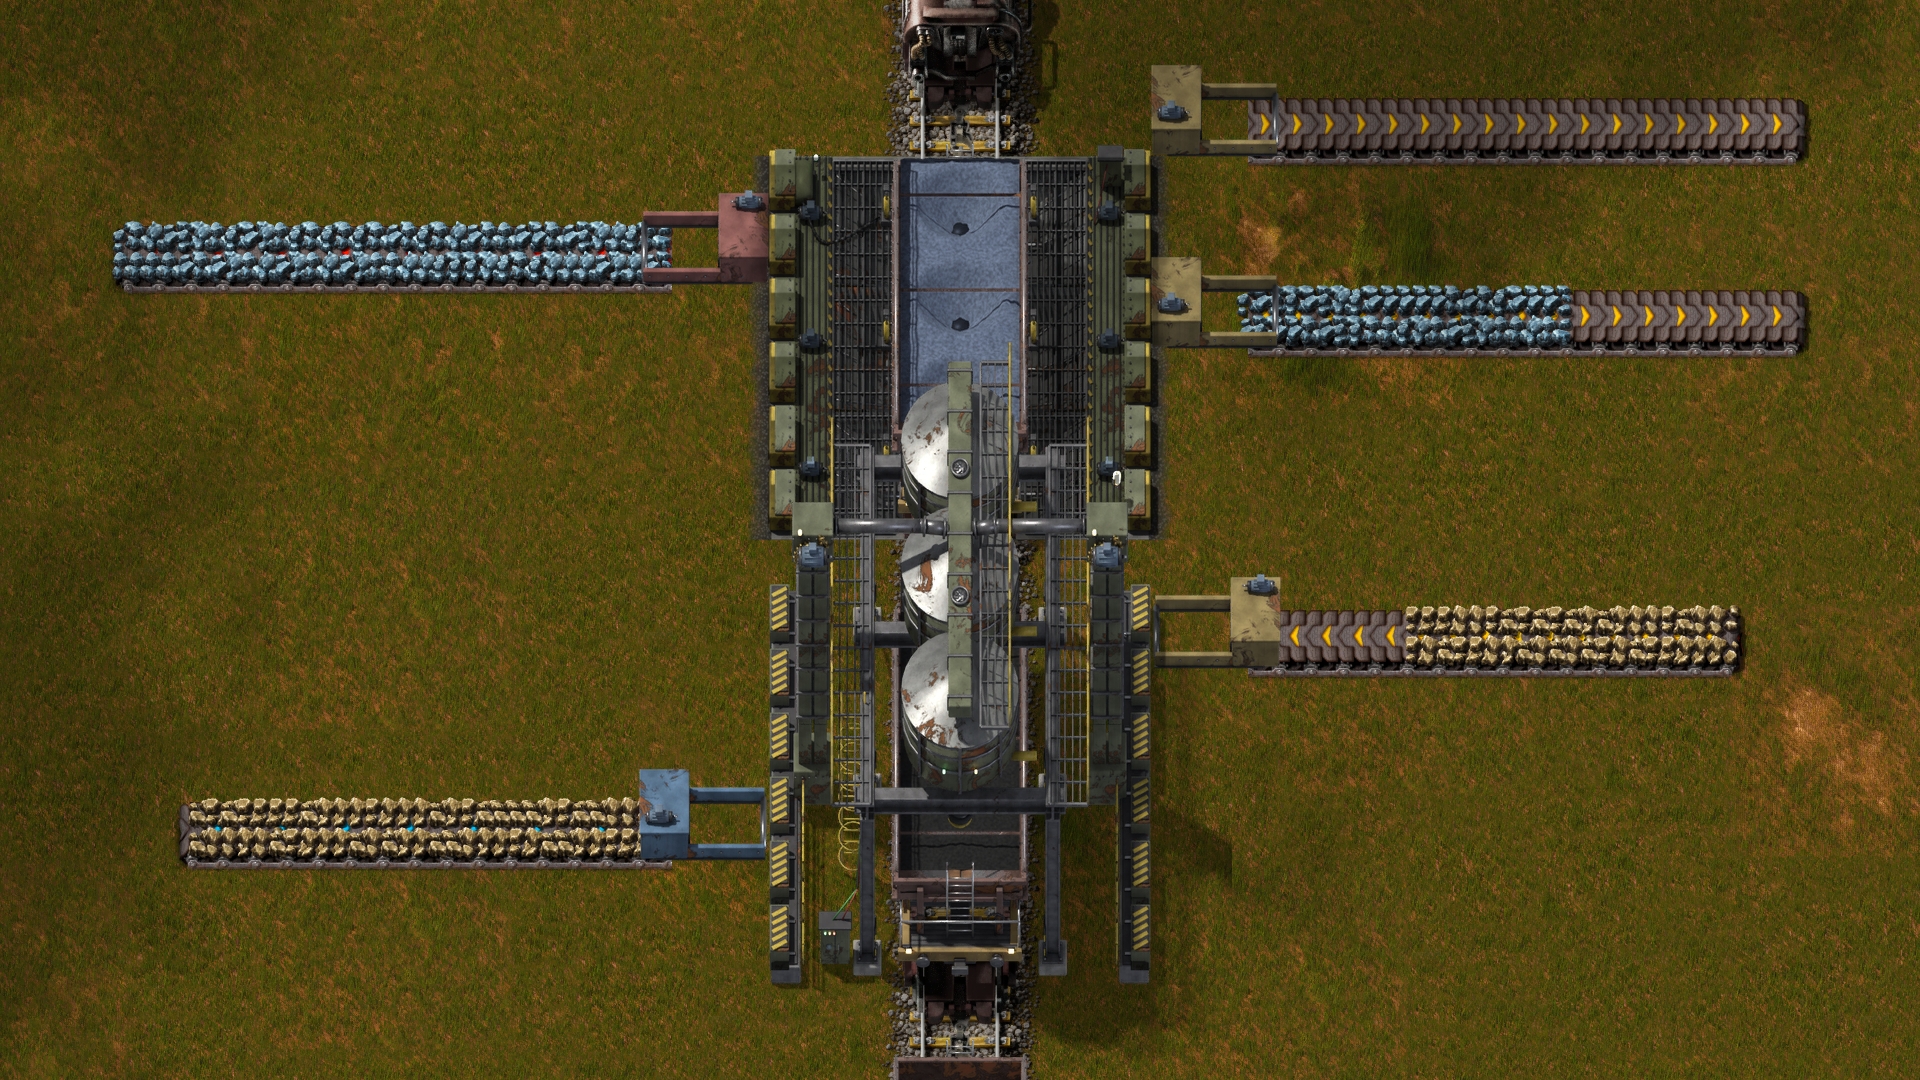
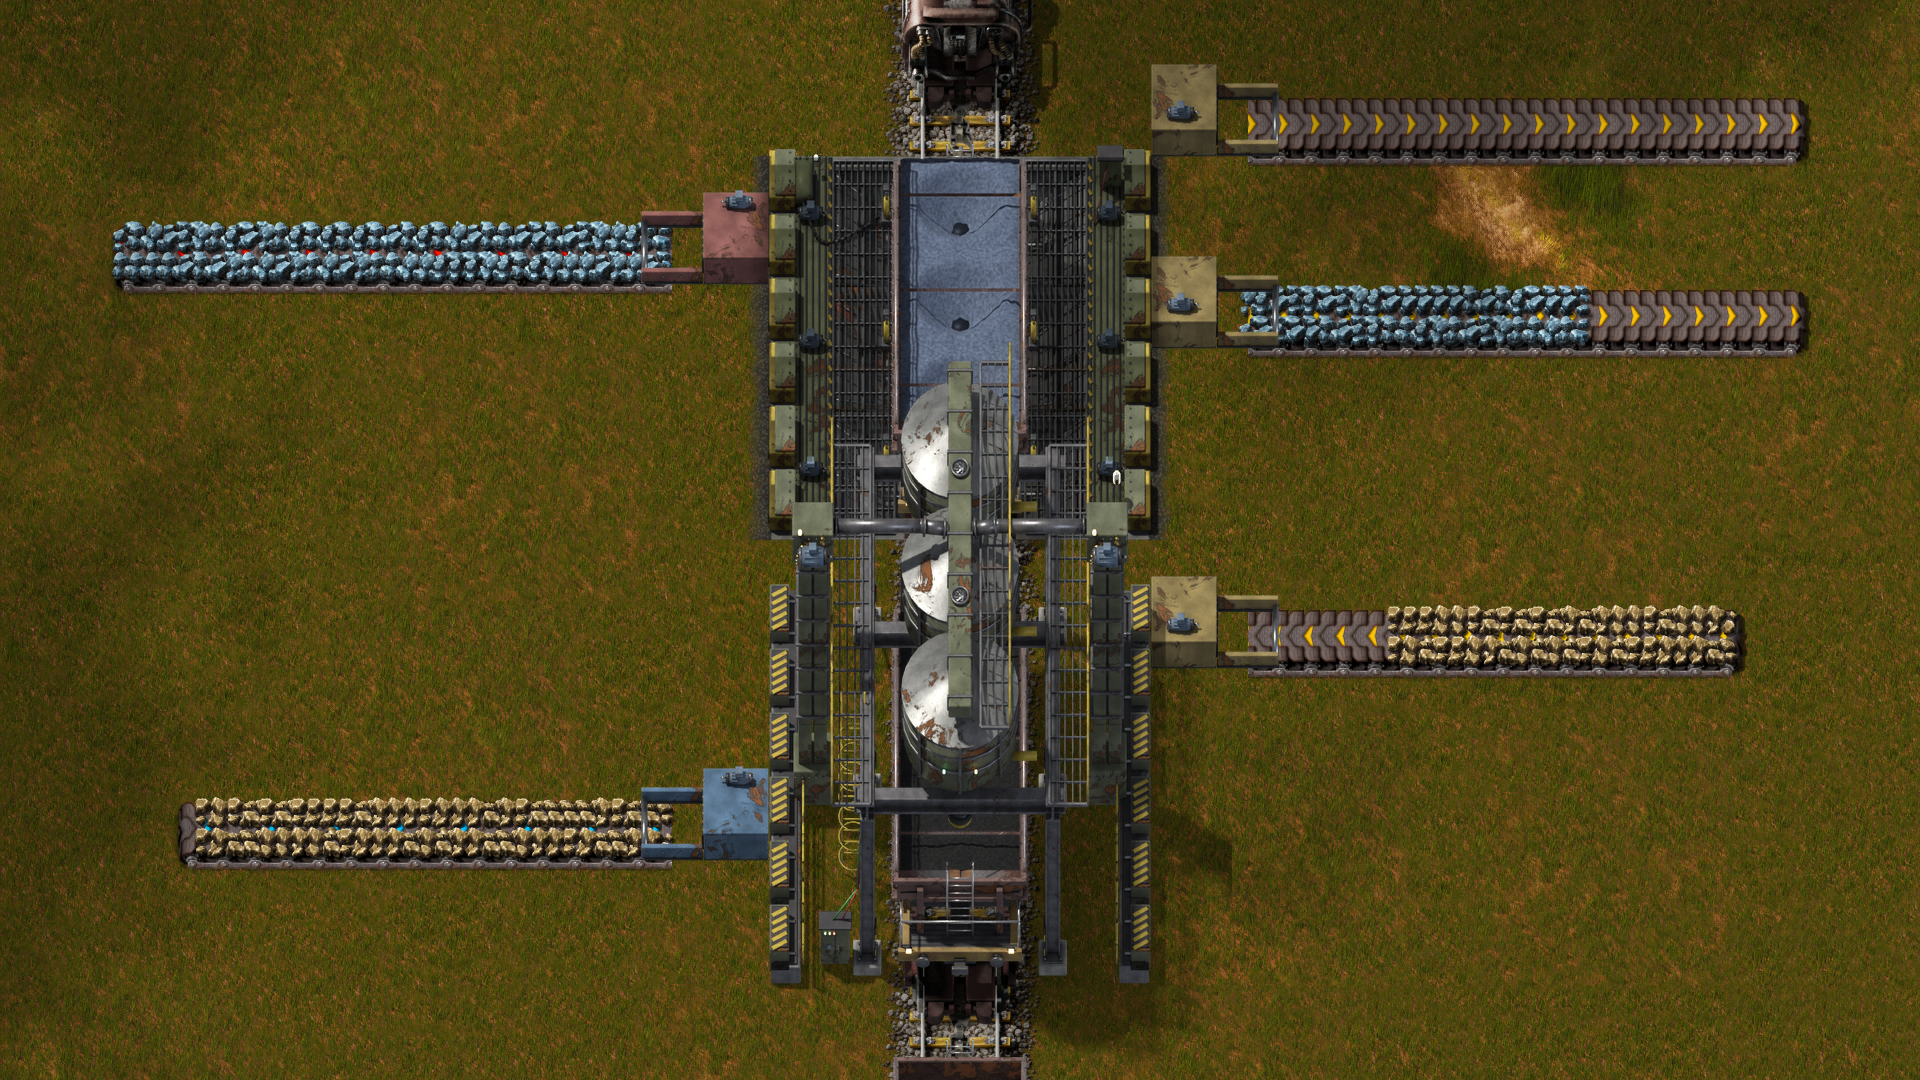
0.4.1: bunker and silo hold three stations' worth, spilled goods come back
The 0.4.0 update spilled most goods because bunker and silo were only as
big as one old station. Their inventory is now three times that, and the
update takes bulk goods lying around each bunker and silo back in. The
connector housing fills its station-side tile and both input and output
connectors face the station.

diff --git a/tools/blender/connector.py b/tools/blender/connector.py
@@ -21,18 +21,19 @@ def build():
     rig.layer("base")
     # skirt walls along the belt, painted
     for sx in (-1, 1):
-        rig.box(f"skirt{sx}", (sx * 0.44, 0.1, 0.1), (0.07, 1.7, 0.2), p["olive"], bevel=0.01, mask=True)
-        kit.rivets((sx * 0.48, -0.6, 0.12), (sx * 0.48, 0.85, 0.12), 6, (sx, 0, 0))
-        rig.box(f"skirt_foot{sx}", (sx * 0.44, 0.1, 0.01), (0.12, 1.72, 0.02), p["dark"], bevel=0)
+        rig.box(f"skirt{sx}", (sx * 0.44, 0.5, 0.1), (0.07, 0.95, 0.2), p["olive"], bevel=0.01, mask=True)
+        kit.rivets((sx * 0.48, 0.1, 0.12), (sx * 0.48, 0.9, 0.12), 4, (sx, 0, 0))
+        rig.box(f"skirt_foot{sx}", (sx * 0.44, 0.5, 0.01), (0.12, 0.97, 0.02), p["dark"], bevel=0)
     # hood at the station end with a dark mouth and rubber curtain
-    rig.box("hood", (0, -0.62, 0.24), (0.98, 0.74, 0.48), p["olive"], bevel=0.03, mask=True)
-    rig.box("hood_roof", (0, -0.62, 0.49), (1.0, 0.78, 0.04), p["olive"], bevel=0.01, mask=True)
-    kit.hazard((0, -0.245, 0.4), (0.9, 0.02, 0.1), stripes=7)
-    rig.box("mouth", (0, -0.24, 0.17), (0.72, 0.02, 0.26), p["dark"], bevel=0)
+    rig.box("hood", (0, -0.5, 0.24), (1.0, 1.0, 0.48), p["olive"], bevel=0.03, mask=True)
+    rig.box("hood_floor", (0, -0.5, 0.01), (1.0, 1.0, 0.02), p["dark"], bevel=0)
+    rig.box("hood_roof", (0, -0.5, 0.49), (1.02, 1.02, 0.04), p["olive"], bevel=0.01, mask=True)
+    kit.hazard((0, 0.005, 0.4), (0.9, 0.02, 0.1), stripes=7)
+    rig.box("mouth", (0, 0.01, 0.17), (0.72, 0.02, 0.26), p["dark"], bevel=0)
     for c in range(8):
-        rig.box(f"curtain{c}", (-0.31 + c * 0.089, -0.225, 0.16), (0.08, 0.012, 0.24), p["rubber"], bevel=0)
+        rig.box(f"curtain{c}", (-0.31 + c * 0.089, 0.025, 0.16), (0.08, 0.012, 0.24), p["rubber"], bevel=0)
     kit.rivets((-0.42, -0.98, 0.45), (0.42, -0.98, 0.45), 6, (0, -1, 0))
-    kit.motor((0.3, -0.7, 0.58), axis="y", length=0.3, radius=0.07)
+    kit.motor((0.3, -0.55, 0.58), axis="y", length=0.3, radius=0.07)
     # end roller at the outer end
     rig.cylinder("roller", (-0.38, 0.93, 0.08), (0.38, 0.93, 0.08), 0.05, p["chrome"], verts=12)
     rig.sun()

diff --git a/tools/blender/build_sprites.py b/tools/blender/build_sprites.py
@@ -170,10 +170,10 @@ def main(render_dir):
         for tier, tint in CONNECTOR_TINTS.items():
             out = [pack.tinted(c, m, tint) for c, m in zip(color, mask)]
             meta[f"connector-{tier}"] = {
-                # the game turns an output loader towards its container: its north frame
-                # has the station north, so the model (station south) is turned around
+                # checked in game: for both kinds the station lies in the frame's
+                # direction, the model has it south, so every frame is turned around
                 "out": write_sheet([out[2], out[3], out[0], out[1]], o, f"connector-{tier}-out", 4),
-                "in": write_sheet(out, o, f"connector-{tier}-in", 4),
+                "in": write_sheet([out[2], out[3], out[0], out[1]], o, f"connector-{tier}-in", 4),
             }
 
     # sets missing from render_dir keep their entries, so one part can be re-rendered alone
